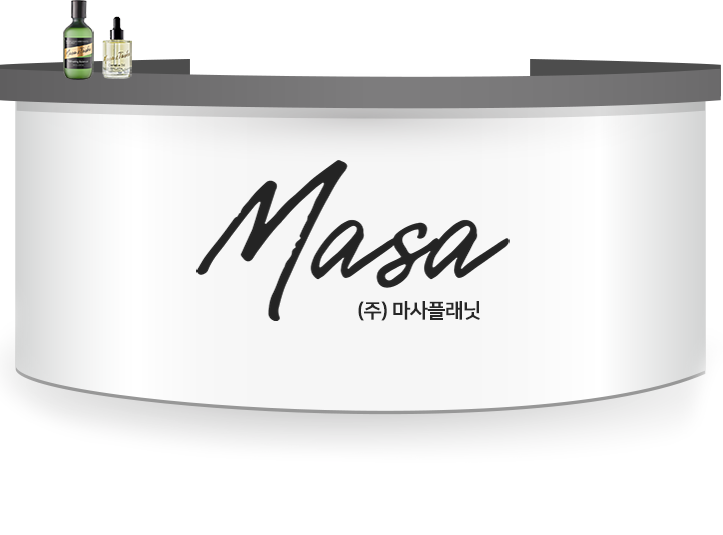
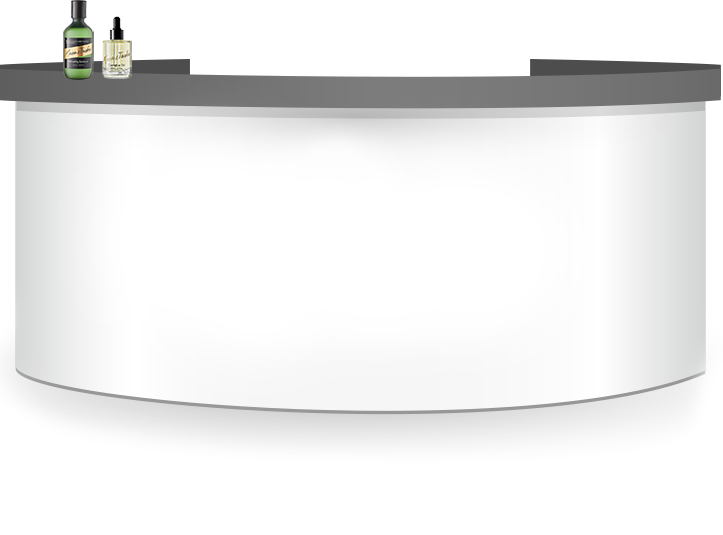
소수현

Changed region(s): [[0.2739, 0.2991, 0.6999, 0.5981]]

diff --git a/.history/public/html/exhibition.complate_20201103144711.html b/.history/public/html/exhibition.complate_20201103144711.html
@@ -54,7 +54,7 @@
             <div class="left"><img src="/img/img_a4.jpg"></div>
             <div class="right"><img src="/img/img_a4.jpg"></div>
             <div class="spot">
-                <i style="position:absolute;bottom:250px;width:100%;margin:0 auto;text-align:center;left:0px;z-index:30;"><img src="/img/img_tablelogo.png" style="display:block;max-width:100%;margin:0 auto;text-align:center"></i>
+                <i style="position:absolute;bottom:250px;width:100%;margin:0 auto;text-align:center;left:0px;z-index:30;"><img src="/img/img_tablelogo.png" style="display:block;margin:0 auto;text-align:center"></i>
                 <span><img src="/img/img_center_booth.png"></span>
                 <div class="center">
                     <iframe width="660" height="376" src="https://www.youtube.com/embed/G9ntaxClfrA" frameborder="0" allow="accelerometer; autoplay; clipboard-write; encrypted-media; gyroscope; picture-in-picture" allowfullscreen></iframe>

diff --git a/.history/public/html/exhibition.complate_20201103144635.html b/.history/public/html/exhibition.complate_20201103144635.html
@@ -54,7 +54,7 @@
             <div class="left"><img src="/img/img_a4.jpg"></div>
             <div class="right"><img src="/img/img_a4.jpg"></div>
             <div class="spot">
-                <i style="position:absolute;bottom:250px;width:100%;margin:0 auto;text-align:center;left:0px;z-index:30;"><img src="/img/img_tablelogo.png" style="display:block;max-width:100%;margin:0 auto;text-align:center"></i>
+                <i style="position:absolute;bottom:250px;width:100%;margin:0 auto;text-align:center;left:0px"><img src="/img/img_tablelogo.png" style="display:block;margin:0 auto;text-align:center"></i>
                 <span><img src="/img/img_center_booth.png"></span>
                 <div class="center">
                     <iframe width="660" height="376" src="https://www.youtube.com/embed/G9ntaxClfrA" frameborder="0" allow="accelerometer; autoplay; clipboard-write; encrypted-media; gyroscope; picture-in-picture" allowfullscreen></iframe>

diff --git a/.history/public/html/exhibition.complate_20201103144657.html b/.history/public/html/exhibition.complate_20201103144657.html
@@ -54,7 +54,7 @@
             <div class="left"><img src="/img/img_a4.jpg"></div>
             <div class="right"><img src="/img/img_a4.jpg"></div>
             <div class="spot">
-                <i style="position:absolute;bottom:250px;width:100%;margin:0 auto;text-align:center;left:0px;z-index:30;"><img src="/img/img_tablelogo.png" style="display:block;max-width:100%;margin:0 auto;text-align:center"></i>
+                <i style="position:absolute;bottom:250px;width:100%;margin:0 auto;text-align:center;left:0px"><img src="/img/img_tablelogo.png" style="display:block;margin:0 auto;text-align:center"></i>
                 <span><img src="/img/img_center_booth.png"></span>
                 <div class="center">
                     <iframe width="660" height="376" src="https://www.youtube.com/embed/G9ntaxClfrA" frameborder="0" allow="accelerometer; autoplay; clipboard-write; encrypted-media; gyroscope; picture-in-picture" allowfullscreen></iframe>

diff --git a/.history/public/mobile/exhibition_20201103144756.html b/.history/public/mobile/exhibition_20201103144756.html
@@ -62,7 +62,7 @@
                 <h2>화장품관ㅣ(주)마사플래닛</h2>
               
                 <div class="spot">
-                    <i style="position:absolute;bottom:15%;width:100%;margin:0 auto;text-align:center;left:0px;z-index:30;"><img src="/img/img_tablelogo.png" style="display:block;max-width:120px;margin:0 auto;text-align:center"></i>
+                    <i style="position:absolute;bottom:250px;width:100%;margin:0 auto;text-align:center;left:0px;z-index:30;"><img src="/img/img_tablelogo.png" style="display:block;max-width:100%;margin:0 auto;text-align:center"></i>
                     <span><img src="/img/img_center_booth.png"></span>
                     <div class="center">
                         <iframe width="100%" height="300" src="https://www.youtube.com/embed/G9ntaxClfrA" frameborder="0" allow="accelerometer; autoplay; clipboard-write; encrypted-media; gyroscope; picture-in-picture" allowfullscreen></iframe>

diff --git a/.history/public/mobile/exhibition_20201103144851.html b/.history/public/mobile/exhibition_20201103144851.html
@@ -62,7 +62,7 @@
                 <h2>화장품관ㅣ(주)마사플래닛</h2>
               
                 <div class="spot">
-                    <i style="position:absolute;bottom:15%;width:100%;margin:0 auto;text-align:center;left:0px;z-index:30;"><img src="/img/img_tablelogo.png" style="display:block;max-width:120px;margin:0 auto;text-align:center"></i>
+                    <i style="position:absolute;bottom:20%;width:100%;margin:0 auto;text-align:center;left:0px;z-index:30;"><img src="/img/img_tablelogo.png" style="display:block;max-width:100px;margin:0 auto;text-align:center"></i>
                     <span><img src="/img/img_center_booth.png"></span>
                     <div class="center">
                         <iframe width="100%" height="300" src="https://www.youtube.com/embed/G9ntaxClfrA" frameborder="0" allow="accelerometer; autoplay; clipboard-write; encrypted-media; gyroscope; picture-in-picture" allowfullscreen></iframe>

diff --git a/.history/public/mobile/exhibition_20201103144902.html b/.history/public/mobile/exhibition_20201103144902.html
@@ -62,7 +62,7 @@
                 <h2>화장품관ㅣ(주)마사플래닛</h2>
               
                 <div class="spot">
-                    <i style="position:absolute;bottom:15%;width:100%;margin:0 auto;text-align:center;left:0px;z-index:30;"><img src="/img/img_tablelogo.png" style="display:block;max-width:120px;margin:0 auto;text-align:center"></i>
+                    <i style="position:absolute;bottom:12%;width:100%;margin:0 auto;text-align:center;left:0px;z-index:30;"><img src="/img/img_tablelogo.png" style="display:block;max-width:100px;margin:0 auto;text-align:center"></i>
                     <span><img src="/img/img_center_booth.png"></span>
                     <div class="center">
                         <iframe width="100%" height="300" src="https://www.youtube.com/embed/G9ntaxClfrA" frameborder="0" allow="accelerometer; autoplay; clipboard-write; encrypted-media; gyroscope; picture-in-picture" allowfullscreen></iframe>

diff --git a/.history/public/mobile/exhibition_20201103144907.html b/.history/public/mobile/exhibition_20201103144907.html
@@ -62,7 +62,7 @@
                 <h2>화장품관ㅣ(주)마사플래닛</h2>
               
                 <div class="spot">
-                    <i style="position:absolute;bottom:15%;width:100%;margin:0 auto;text-align:center;left:0px;z-index:30;"><img src="/img/img_tablelogo.png" style="display:block;max-width:120px;margin:0 auto;text-align:center"></i>
+                    <i style="position:absolute;bottom:15%;width:100%;margin:0 auto;text-align:center;left:0px;z-index:30;"><img src="/img/img_tablelogo.png" style="display:block;max-width:100px;margin:0 auto;text-align:center"></i>
                     <span><img src="/img/img_center_booth.png"></span>
                     <div class="center">
                         <iframe width="100%" height="300" src="https://www.youtube.com/embed/G9ntaxClfrA" frameborder="0" allow="accelerometer; autoplay; clipboard-write; encrypted-media; gyroscope; picture-in-picture" allowfullscreen></iframe>

diff --git a/.history/public/mobile/exhibition_20201103144837.html b/.history/public/mobile/exhibition_20201103144837.html
@@ -62,7 +62,7 @@
                 <h2>화장품관ㅣ(주)마사플래닛</h2>
               
                 <div class="spot">
-                    <i style="position:absolute;bottom:15%;width:100%;margin:0 auto;text-align:center;left:0px;z-index:30;"><img src="/img/img_tablelogo.png" style="display:block;max-width:120px;margin:0 auto;text-align:center"></i>
+                    <i style="position:absolute;bottom:30%;width:100%;margin:0 auto;text-align:center;left:0px;z-index:30;"><img src="/img/img_tablelogo.png" style="display:block;max-width:100%;margin:0 auto;text-align:center"></i>
                     <span><img src="/img/img_center_booth.png"></span>
                     <div class="center">
                         <iframe width="100%" height="300" src="https://www.youtube.com/embed/G9ntaxClfrA" frameborder="0" allow="accelerometer; autoplay; clipboard-write; encrypted-media; gyroscope; picture-in-picture" allowfullscreen></iframe>

diff --git a/.history/public/mobile/exhibition_20201103144845.html b/.history/public/mobile/exhibition_20201103144845.html
@@ -62,7 +62,7 @@
                 <h2>화장품관ㅣ(주)마사플래닛</h2>
               
                 <div class="spot">
-                    <i style="position:absolute;bottom:15%;width:100%;margin:0 auto;text-align:center;left:0px;z-index:30;"><img src="/img/img_tablelogo.png" style="display:block;max-width:120px;margin:0 auto;text-align:center"></i>
+                    <i style="position:absolute;bottom:20%;width:100%;margin:0 auto;text-align:center;left:0px;z-index:30;"><img src="/img/img_tablelogo.png" style="display:block;max-width:100%;margin:0 auto;text-align:center"></i>
                     <span><img src="/img/img_center_booth.png"></span>
                     <div class="center">
                         <iframe width="100%" height="300" src="https://www.youtube.com/embed/G9ntaxClfrA" frameborder="0" allow="accelerometer; autoplay; clipboard-write; encrypted-media; gyroscope; picture-in-picture" allowfullscreen></iframe>

diff --git a/.history/public/html/exhibition.complate_20201103144546.html b/.history/public/html/exhibition.complate_20201103144546.html
@@ -54,7 +54,7 @@
             <div class="left"><img src="/img/img_a4.jpg"></div>
             <div class="right"><img src="/img/img_a4.jpg"></div>
             <div class="spot">
-                <i style="position:absolute;bottom:250px;width:100%;margin:0 auto;text-align:center;left:0px;z-index:30;"><img src="/img/img_tablelogo.png" style="display:block;max-width:100%;margin:0 auto;text-align:center"></i>
+                <i style="position:absolute;bottom:250px;width:100%;margin:0 auto;text-align:center;"><img src="/img/img_tablelogo.png"></i>
                 <span><img src="/img/img_center_booth.png"></span>
                 <div class="center">
                     <iframe width="660" height="376" src="https://www.youtube.com/embed/G9ntaxClfrA" frameborder="0" allow="accelerometer; autoplay; clipboard-write; encrypted-media; gyroscope; picture-in-picture" allowfullscreen></iframe>

diff --git a/.history/public/html/exhibition.complate_20201103144533.html b/.history/public/html/exhibition.complate_20201103144533.html
@@ -54,7 +54,7 @@
             <div class="left"><img src="/img/img_a4.jpg"></div>
             <div class="right"><img src="/img/img_a4.jpg"></div>
             <div class="spot">
-                <i style="position:absolute;bottom:250px;width:100%;margin:0 auto;text-align:center;left:0px;z-index:30;"><img src="/img/img_tablelogo.png" style="display:block;max-width:100%;margin:0 auto;text-align:center"></i>
+                <i style="position:absolute;bottom:250px;"><img src="/img/img_tablelogo.png"></i>
                 <span><img src="/img/img_center_booth.png"></span>
                 <div class="center">
                     <iframe width="660" height="376" src="https://www.youtube.com/embed/G9ntaxClfrA" frameborder="0" allow="accelerometer; autoplay; clipboard-write; encrypted-media; gyroscope; picture-in-picture" allowfullscreen></iframe>

diff --git a/.history/public/html/exhibition.complate_20201103144524.html b/.history/public/html/exhibition.complate_20201103144524.html
@@ -54,7 +54,7 @@
             <div class="left"><img src="/img/img_a4.jpg"></div>
             <div class="right"><img src="/img/img_a4.jpg"></div>
             <div class="spot">
-                <i style="position:absolute;bottom:250px;width:100%;margin:0 auto;text-align:center;left:0px;z-index:30;"><img src="/img/img_tablelogo.png" style="display:block;max-width:100%;margin:0 auto;text-align:center"></i>
+                <i style="position:absolute;"><img src="/img/img_tablelogo.png"></i>
                 <span><img src="/img/img_center_booth.png"></span>
                 <div class="center">
                     <iframe width="660" height="376" src="https://www.youtube.com/embed/G9ntaxClfrA" frameborder="0" allow="accelerometer; autoplay; clipboard-write; encrypted-media; gyroscope; picture-in-picture" allowfullscreen></iframe>
